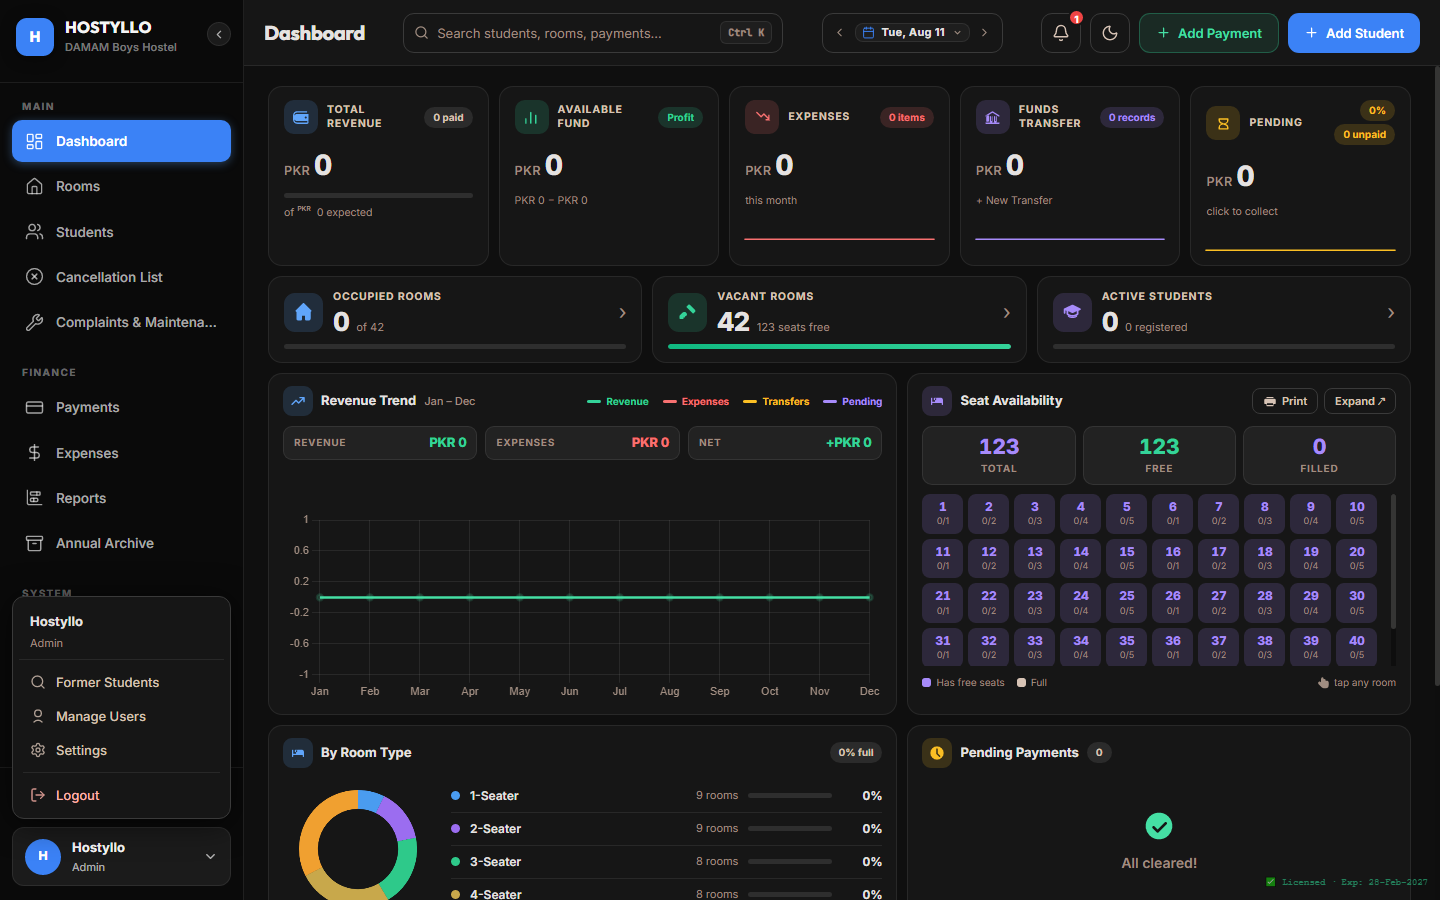
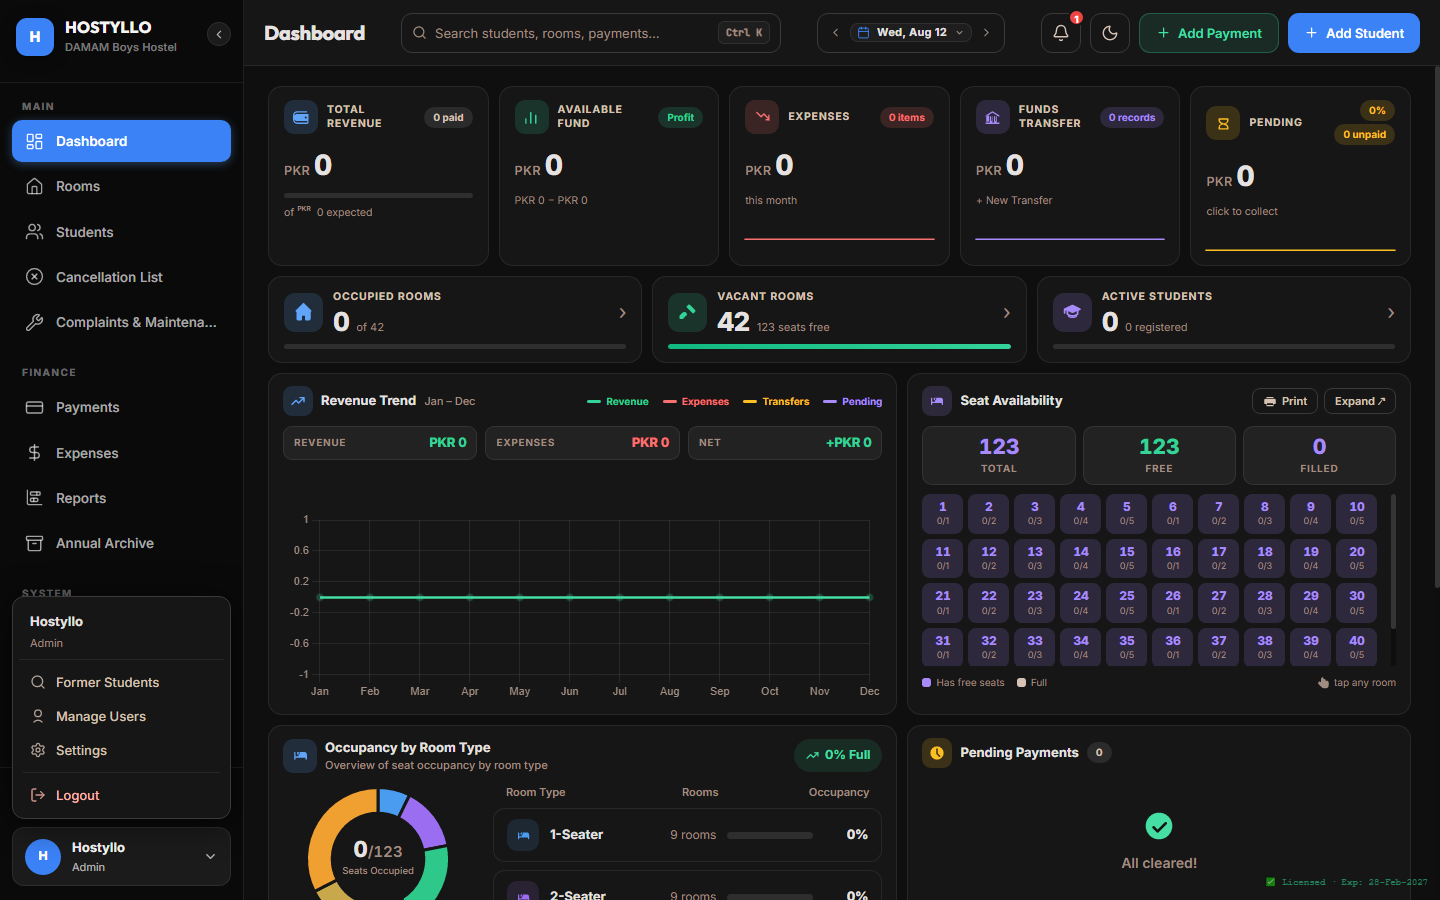
feat(dashboard,payments,toolbars): occupancy card, column visibility, tighter toolbars
Occupancy by Room Type (was "By Room Type"), rebuilt to the owner's reference:
- title + subtitle, and a green "N% Full" pill that turns red at 90%+
- the seats figure moved into the centre of the donut ("51/80 · Seats Occupied")
- an Occupied / Total Seats stat box and a "N Seats Available" line beneath it
- the breakdown is now labelled rows (Room Type / Rooms / Occupancy) as bordered
  cards with a per-type tinted icon, instead of an unlabelled dot list
- a footer note explaining how the percentage is derived
Room-type colour stays DATA (owner-configured): it drives the icon tint, the bar
and the percentage. _rtTint() only appends hex alpha to a 6-digit hex and falls
back to the neutral track colour otherwise, so a stored rgb()/named colour can
never emit a broken value.

The donut is responsive:true now and sized by its wrapper. It was responsive:
false against hard-coded 300x300 canvas attributes while an unconditional
`#dash-roomtype-donut { width:118px !important }` density rule fought it — the
ring drew at 118px inside a 170px box, so the new centre label sat off-centre.
Sizing moved to .rt-donut; segments are separated with --card so the ring reads
the same in both themes (theme.js already redraws on toggle).

Payments: Adm. Fee / Extra Chrgs / Concession are hidden by default so
everything through Status fits with no horizontal scrolling, and appear when the
sidebar is collapsed via its top-left arrow — that reclaims enough width for all
twelve columns.
[…]

diff --git a/renderer/src/modules/dashboard.js b/renderer/src/modules/dashboard.js
@@ -205,7 +205,15 @@ function renderDashboard() {
   const availSeats = totalSeats - filledSeats;
   const seatPct = totalSeats>0 ? Math.round(filledSeats/totalSeats*100) : 0;
 
-  // Per-room-type seat breakdown
+  // Per-room-type seat breakdown.
+  // type.color is DATA (owner-configured per room type), not styling — it stays
+  // the literal colour for the icon, the bar fill and the percentage.
+  // _rtTint() builds the pale chip background from it. Only 6-digit hex can take
+  // an alpha suffix; anything else (a stored rgb()/named colour) falls back to
+  // the neutral track colour rather than emitting a broken value.
+  const _rtTint = c => (/^#[0-9a-f]{6}$/i.test(String(c||'')) ? c + '22' : 'var(--dash-track)');
+  const _rtBed = `<svg viewBox="0 0 24 24" fill="currentColor" width="15" height="15"><path d="M19 7h-7a3 3 0 0 0-3 3v3H5V8a1 1 0 0 0-2 0v9a1 1 0 0 0 2 0v-2h14v2a1 1 0 0 0 2 0v-6a4 4 0 0 0-4-4ZM7 9a2 2 0 1 1 2 2 2 2 0 0 1-2-2Z"/></svg>`;
+
   let seatBreakdown = '';
   DB.settings.roomTypes.forEach(type => {
     const tRooms = DB.rooms.filter(r=>r.typeId===type.id);
@@ -213,15 +221,13 @@ function renderDashboard() {
     const typeFilledSeats = DB.students.filter(t=>t.status==='Active'&&!t.isForced&&tRooms.some(r=>r.id===t.roomId)).length;
     const typeAvail = typeTotalSeats - typeFilledSeats;
     const typePct = typeTotalSeats>0?Math.round(typeFilledSeats/typeTotalSeats*100):0;
-    // type.color is DATA (owner-configured per room type), not styling — it
-    // stays as the literal colour for the dot and the fill.
     seatBreakdown += `
-      <div class="dash-rt" title="${escHtml(type.name)} — ${typeFilledSeats}/${typeTotalSeats} seats filled, ${typeAvail} free">
-        <span class="dash-rt__dot" style="background:${escHtml(type.color)}"></span>
-        <span class="dash-rt__name">${escHtml(type.name)}</span>
-        <span class="dash-rt__meta">${tRooms.length} room${tRooms.length===1?'':'s'}</span>
-        <span class="dash-rt__bar"><i style="width:${typePct}%;background:${escHtml(type.color)}"></i></span>
-        <span class="dash-rt__pct">${typePct}%</span>
+      <div class="rt-row" title="${escHtml(type.name)} — ${typeFilledSeats}/${typeTotalSeats} seats filled, ${typeAvail} free">
+        <span class="rt-row__ic" style="background:${escHtml(_rtTint(type.color))};color:${escHtml(type.color)}">${_rtBed}</span>
+        <span class="rt-row__name">${escHtml(type.name)}</span>
+        <span class="rt-row__rooms">${tRooms.length} room${tRooms.length===1?'':'s'}</span>
+        <span class="rt-row__bar"><i style="width:${typePct}%;background:${escHtml(type.color)}"></i></span>
+        <span class="rt-row__pct" style="color:${typePct>0?escHtml(type.color):'var(--text)'}">${typePct}%</span>
       </div>`;
   });
 
@@ -461,18 +467,53 @@ function renderDashboard() {
   <div class="dash-split">
   <div class="dash-sec">
     <div class="dash-sec__head" style="margin-bottom:4px">
-      <div class="dash-chip dh-blue" style="width:30px;height:30px;border-radius:9px"><svg class="icon" viewBox="0 0 24 24" fill="currentColor" style="width:16px;height:16px"><path d="M19 7h-7a3 3 0 0 0-3 3v3H5V8a1 1 0 0 0-2 0v9a1 1 0 0 0 2 0v-2h14v2a1 1 0 0 0 2 0v-6a4 4 0 0 0-4-4ZM7 9a2 2 0 1 1 2 2 2 2 0 0 1-2-2Z"/></svg></div>
-      <span class="dash-sec__title">By Room Type</span>
-      <span class="dash-pill dh-slate" style="margin-left:auto">${seatPct}% full</span>
-    </div>
-    <div style="display:grid;grid-template-columns:150px 1fr;gap:18px;padding:8px 0;align-items:center">
-      <div style="display:flex;flex-direction:column;align-items:center;justify-content:center">
-        <canvas id="dash-roomtype-donut" width="280" height="280" style="width:140px;height:140px"></canvas>
-        <div style="font-size:12px;font-weight:700;color:var(--text);margin-top:8px">${filledSeats}<span style="color:var(--text3);font-weight:500">/${totalSeats}</span> <span style="font-size:10px;color:var(--text3);font-weight:500">seats</span></div>
+      <div class="dash-chip dh-blue" style="width:34px;height:34px;border-radius:10px"><svg class="icon" viewBox="0 0 24 24" fill="currentColor" style="width:17px;height:17px"><path d="M19 7h-7a3 3 0 0 0-3 3v3H5V8a1 1 0 0 0-2 0v9a1 1 0 0 0 2 0v-2h14v2a1 1 0 0 0 2 0v-6a4 4 0 0 0-4-4ZM7 9a2 2 0 1 1 2 2 2 2 0 0 1-2-2Z"/></svg></div>
+      <div style="min-width:0">
+        <div class="dash-sec__title">Occupancy by Room Type</div>
+        <div class="dash-sec__sub">Overview of seat occupancy by room type</div>
       </div>
-      <div>
+      <span class="rt-full ${seatPct>=90?'is-high':''}" style="margin-left:auto">
+        <svg viewBox="0 0 24 24" fill="none" stroke="currentColor" stroke-width="2.2" stroke-linecap="round" stroke-linejoin="round" width="13" height="13"><path d="M16 7h6v6"/><path d="m22 7-8.5 8.5-5-5L2 17"/></svg>
+        ${seatPct}% Full
+      </span>
+    </div>
+
+    <div class="rt-body">
+      <div class="rt-left">
+        <div class="rt-donut">
+          <!-- No width/height attributes: the chart is responsive:true, so
+               Chart.js sizes the backing store to this box and to the device
+               pixel ratio itself. Hard-coding them made it lay out against the
+               attribute size and draw the ring smaller than, and off-centre in,
+               its container. -->
+          <canvas id="dash-roomtype-donut"></canvas>
+          <div class="rt-donut__c">
+            <div class="rt-donut__n">${filledSeats}<span>/${totalSeats}</span></div>
+            <div class="rt-donut__l">Seats Occupied</div>
+          </div>
+        </div>
+        <div class="rt-stat">
+          <span class="rt-stat__ic dh-blue"><svg viewBox="0 0 24 24" fill="currentColor" width="15" height="15"><path d="M12 12a5 5 0 1 0-5-5 5 5 0 0 0 5 5Zm0 2c-4 0-8 2-8 5v1a1 1 0 0 0 1 1h14a1 1 0 0 0 1-1v-1c0-3-4-5-8-5Z"/></svg></span>
+          <div class="rt-stat__c"><b>${filledSeats}</b><span>Occupied</span></div>
+          <div class="rt-stat__sep"></div>
+          <div class="rt-stat__c"><b>${totalSeats}</b><span>Total Seats</span></div>
+        </div>
+        <div class="rt-avail"><i></i><b>${availSeats}</b> Seats Available</div>
+      </div>
+
+      <div class="rt-right">
+        <div class="rt-list__hd">
+          <span>Room Type</span>
+          <span class="rt-list__hd-rooms">Rooms</span>
+          <span class="rt-list__hd-occ">Occupancy</span>
+        </div>
         ${seatBreakdown}
       </div>
+    </div>
+
+    <div class="rt-note">
+      <span class="rt-note__ic"><svg viewBox="0 0 24 24" fill="currentColor" width="12" height="12"><path d="M12 2a10 10 0 1 0 10 10A10 10 0 0 0 12 2Zm0 5a1.25 1.25 0 1 1-1.25 1.25A1.25 1.25 0 0 1 12 7Zm1.5 10h-3a1 1 0 0 1 0-2h.5v-3h-.5a1 1 0 0 1 0-2H12a1 1 0 0 1 1 1v4h.5a1 1 0 0 1 0 2Z"/></svg></span>
+      Occupancy percentage is calculated based on available seats in each room type.
     </div>
   </div>
   <!-- PENDING PAYMENTS -->
@@ -1289,6 +1330,10 @@ function drawRoomDonut() {
     }
   });
 
+  // Separate the segments with the card colour rather than a fixed white, so the
+  // ring reads the same in both themes. theme.js already re-runs this on toggle.
+  var cardBg = getComputedStyle(document.body).getPropertyValue('--card').trim() || '#161616';
+
   _dashDonutChart = new Chart(canvas.getContext('2d'), {
     type: 'doughnut',
     data: {
@@ -1296,14 +1341,16 @@ function drawRoomDonut() {
       datasets: [{
         data: data,
         backgroundColor: colors,
-        borderWidth: 0,
+        borderWidth: 3,
+        borderColor: cardBg,
         hoverOffset: 5
       }]
     },
     options: {
-      cutout: '68%',
-      responsive: false,
+      cutout: '64%',
+      responsive: true,
       maintainAspectRatio: false,
+      layout: { padding: 2 },
       animation: false,
       plugins: {
         legend: { display: false },

diff --git a/renderer/dashboard.css b/renderer/dashboard.css
@@ -128,6 +128,86 @@
 .dash-rt__bar > i  { display:block; height:100%; border-radius:999px; transition:width .5s ease; }
 .dash-rt__pct      { flex-shrink:0; width:40px; text-align:right; font-size:12px; font-weight:700; color:var(--text); font-family:var(--font); font-variant-numeric:tabular-nums; }
 
+/* ── Occupancy by Room Type ──────────────────────────────────────────────── */
+.rt-full {
+    display:inline-flex; align-items:center; gap:6px; flex-shrink:0;
+    padding:7px 12px; border-radius:999px;
+    background:var(--dh-bg, rgba(46,201,138,.12)); color:var(--green);
+    font-size:12.5px; font-weight:700; white-space:nowrap;
+}
+.rt-full.is-high { color:var(--red); }
+
+.rt-body { display:grid; grid-template-columns:190px 1fr; gap:20px; padding:6px 0 2px; align-items:start; }
+
+.rt-donut { position:relative; width:170px; height:170px; margin:0 auto; }
+/* The canvas is absolutely positioned so it shares its box exactly with the
+   overlay below. Sized by CSS while the element keeps a larger backing store
+   (the width/height attributes), which is what keeps the ring crisp. */
+.rt-donut canvas { position:absolute; inset:0; display:block; }
+/* Chart.js has no centre-label API, so the figure is an overlay. pointer-events
+   must stay off or it would swallow the donut's own hover tooltips. */
+.rt-donut__c {
+    position:absolute; inset:0; pointer-events:none;
+    display:flex; flex-direction:column; align-items:center; justify-content:center;
+}
+.rt-donut__n { font-size:22px; font-weight:800; color:var(--text); line-height:1; font-variant-numeric:tabular-nums; }
+.rt-donut__n span { font-size:15px; font-weight:600; color:var(--text3); }
+.rt-donut__l { margin-top:4px; font-size:9.5px; font-weight:500; color:var(--text3); }
+
+.rt-stat {
+    display:flex; align-items:center; gap:10px; margin-top:14px;
+    padding:10px 12px; border-radius:12px;
+    background:var(--card); border:1px solid var(--border);
+}
+.rt-stat__ic { width:30px; height:30px; border-radius:50%; flex-shrink:0;
+               display:flex; align-items:center; justify-content:center; }
+.rt-stat__c    { min-width:0; line-height:1.25; }
+.rt-stat__c b  { display:block; font-size:15px; font-weight:800; color:var(--text); font-variant-numeric:tabular-nums; }
+.rt-stat__c span { font-size:10.5px; color:var(--text3); white-space:nowrap; }
+.rt-stat__sep  { width:1px; align-self:stretch; background:var(--border); margin:0 2px; }
+
+.rt-avail { display:flex; align-items:center; gap:7px; margin-top:11px; padding-left:2px;
+            font-size:12px; color:var(--text3); }
+.rt-avail i { width:7px; height:7px; border-radius:50%; background:var(--green); flex-shrink:0; }
+.rt-avail b { color:var(--green); font-weight:800; font-variant-numeric:tabular-nums; }
+
+.rt-list__hd {
+    display:flex; align-items:center; gap:11px; padding:0 13px 8px;
+    font-size:11px; font-weight:600; color:var(--text3);
+}
+.rt-list__hd > span:first-child { flex:1; min-width:0; }
+.rt-list__hd-rooms { flex-shrink:0; width:70px; text-align:right; }
+.rt-list__hd-occ   { flex-shrink:0; width:140px; text-align:right; }
+
+.rt-row {
+    display:flex; align-items:center; gap:11px;
+    padding:10px 13px; margin-bottom:8px;
+    border-radius:12px; background:var(--card); border:1px solid var(--border);
+    transition:border-color .15s ease;
+}
+.rt-row:last-child  { margin-bottom:0; }
+.rt-row:hover       { border-color:var(--border2); }
+.rt-row__ic {
+    width:32px; height:32px; border-radius:10px; flex-shrink:0;
+    display:flex; align-items:center; justify-content:center;
+}
+.rt-row__name  { flex:1; min-width:0; font-size:13px; font-weight:700; color:var(--text);
+                 white-space:nowrap; overflow:hidden; text-overflow:ellipsis; }
+.rt-row__rooms { flex-shrink:0; width:70px; text-align:right; font-size:12px; color:var(--text3);
+                 font-variant-numeric:tabular-nums; }
+.rt-row__bar   { flex-shrink:0; width:86px; height:7px; border-radius:999px;
+                 background:var(--dash-track); overflow:hidden; }
+.rt-row__bar > i { display:block; height:100%; border-radius:999px; transition:width .5s ease; }
+.rt-row__pct   { flex-shrink:0; width:44px; text-align:right; font-size:13px; font-weight:800;
+                 font-variant-numeric:tabular-nums; }
+
+.rt-note {
+    display:flex; align-items:center; gap:9px; margin-top:14px;
+    padding:10px 13px; border-radius:11px;
+    background:var(--dash-sunk); color:var(--text3); font-size:11.5px; line-height:1.5;
+}
+.rt-note__ic { color:var(--accent); flex-shrink:0; display:flex; }
+
 /* ── Pending payment rows ────────────────────────────────────────────────── */
 .dash-pay            { display:flex; align-items:center; gap:11px; padding:10px 0; border-bottom:1px solid var(--border); }
 .dash-pay:last-child { border-bottom:none; }
@@ -207,8 +287,11 @@
 .dash-pay__name         { font-size:12.5px; }
 
 /* The donut shrinks with everything else, otherwise the card around it gets
-   denser while the chart keeps its old footprint. */
-#dash-roomtype-donut    { width:118px !important; height:118px !important; }
+   denser while the chart keeps its old footprint. Sizing moved from the canvas
+   to its wrapper: the chart is responsive:true now and measures that box, so an
+   !important on the canvas fought the chart instead of resizing it — it drew a
+   118px ring inside a 170px container, leaving the centre label off-centre. */
+.rt-donut               { width:150px; height:150px; }
 
 /* ── Trend + Seat row height (owner request: taller top-to-bottom) ───────────
    These two are the row that earns extra height — the trend line was cramped

diff --git a/renderer/src/modules/payments.js b/renderer/src/modules/payments.js
@@ -298,10 +298,11 @@ function renderPayments() {
           ${th('method','Method')}
           ${th('status','Status')}
           <!-- Secondary money columns sit after Status: they are usually "—", and
-               keeping them left of it pushed the columns that matter off-screen. -->
-          <th>Adm. Fee</th>
-          <th>Extra Chrgs</th>
-          <th>Concession</th>
+               keeping them left of it pushed the columns that matter off-screen.
+               They are hidden until the sidebar is collapsed — see payments.css. -->
+          <th class="pay-col-x">Adm. Fee</th>
+          <th class="pay-col-x">Extra Chrgs</th>
+          <th class="pay-col-x">Concession</th>
           <th class="pay-col-act">Actions</th>
         </tr></thead>
         <tbody>
@@ -349,9 +350,9 @@ function renderPayments() {
               </span>
               ${payIsOverdue(p)?'<div style="font-size:10px;font-weight:700;color:var(--red);margin-top:3px">Overdue</div>':''}
             </td>
-            <td>${admFee>0?`<span class="pay-money">${fmtPKR(admFee)}</span>`:'<span class="pay-dash">—</span>'}</td>
-            <td>${extras.length?`<div class="pay-extra">${extras.map(c=>`${c.label?escHtml(c.label)+':':''}<b>${fmtPKR(c.amount)}</b>`).join('')}</div>`:'<span class="pay-dash">—</span>'}</td>
-            <td>${conc>0?`<div class="pay-extra">${concD?escHtml(concD)+':':''}<b>−${fmtPKR(conc)}</b></div>`:'<span class="pay-dash">—</span>'}</td>
+            <td class="pay-col-x">${admFee>0?`<span class="pay-money">${fmtPKR(admFee)}</span>`:'<span class="pay-dash">—</span>'}</td>
+            <td class="pay-col-x">${extras.length?`<div class="pay-extra">${extras.map(c=>`${c.label?escHtml(c.label)+':':''}<b>${fmtPKR(c.amount)}</b>`).join('')}</div>`:'<span class="pay-dash">—</span>'}</td>
+            <td class="pay-col-x">${conc>0?`<div class="pay-extra">${concD?escHtml(concD)+':':''}<b>−${fmtPKR(conc)}</b></div>`:'<span class="pay-dash">—</span>'}</td>
             <td class="pay-col-act">
               <div class="pay-acts">
                 <button class="pay-act dh-blue"  onclick="event.stopPropagation();showEditPaymentModal('${p.id}')" title="View / edit"><svg width="13" height="13" viewBox="0 0 24 24" fill="none" stroke="currentColor" stroke-width="2" stroke-linecap="round" stroke-linejoin="round"><path d="M2 12s3-7 10-7 10 7 10 7-3 7-10 7-10-7-10-7"/><circle cx="12" cy="12" r="3"/></svg></button>

diff --git a/renderer/listkit.css b/renderer/listkit.css
@@ -62,7 +62,7 @@
 .lk-panel { background:var(--card); border:1px solid var(--border); border-radius:16px; padding:14px 16px; }
 .lk-tools { display:flex; align-items:center; gap:10px; flex-wrap:wrap; }
 .lk-search {
-    display:flex; align-items:center; gap:8px; flex:1 1 220px; min-width:190px; max-width:330px;
+    display:flex; align-items:center; gap:8px; flex:1 1 170px; min-width:150px; max-width:300px;
     height:40px; padding:0 12px; border-radius:11px;
     background:var(--card); border:1px solid var(--border2);
     transition:border-color .15s ease, box-shadow .15s ease;
@@ -73,7 +73,7 @@
 .lk-search input::placeholder { color:var(--text3); }
 
 .lk-select {
-    height:40px; min-width:132px; padding:0 32px 0 13px; border-radius:11px; cursor:pointer;
+    height:40px; min-width:118px; padding:0 32px 0 13px; border-radius:11px; cursor:pointer;
     background:var(--card); border:1px solid var(--border2); color:var(--text);
     font-family:var(--font); font-size:13px; font-weight:500;
     appearance:none; -webkit-appearance:none;
@@ -101,7 +101,7 @@
 .lk-range { display:flex; align-items:center; gap:8px; height:40px; padding:0 12px; border-radius:11px;
             background:var(--card); border:1px solid var(--border2); }
 .lk-range input {
-    width:84px; background:none; border:none; outline:none; cursor:pointer;
+    width:76px; background:none; border:none; outline:none; cursor:pointer;
     color:var(--text); font-family:var(--font); font-size:12.5px; font-variant-numeric:tabular-nums;
 }
 .lk-range svg  { color:var(--text3); flex-shrink:0; }

diff --git a/renderer/rooms.css b/renderer/rooms.css
@@ -34,7 +34,7 @@
 .rms-tools { display:flex; align-items:center; gap:10px; flex-wrap:wrap; }
 
 .rms-search {
-    display:flex; align-items:center; gap:8px; flex:1 1 200px; min-width:180px; max-width:280px;
+    display:flex; align-items:center; gap:8px; flex:1 1 170px; min-width:150px; max-width:200px;
     height:40px; padding:0 12px; border-radius:11px;
     background:var(--card); border:1px solid var(--border2);
     transition:border-color .15s ease, box-shadow .15s ease;
@@ -48,7 +48,7 @@
 .rms-seg { display:flex; align-items:center; gap:4px; padding:4px; border-radius:12px;
           background:var(--dash-sunk); border:1px solid var(--border); }
 .rms-seg button {
-    height:32px; padding:0 15px; border-radius:9px; cursor:pointer; white-space:nowrap;
+    height:32px; padding:0 12px; border-radius:9px; cursor:pointer; white-space:nowrap;
     background:none; border:none; color:var(--text2);
     font-family:var(--font); font-size:12.5px; font-weight:600; transition:var(--transition);
 }
@@ -56,7 +56,7 @@
 .rms-seg button.is-on     { background:var(--accent-dim); color:var(--accent-strong); }
 
 .rms-select {
-    height:40px; min-width:132px; padding:0 32px 0 13px; border-radius:11px; cursor:pointer;
+    height:40px; min-width:118px; padding:0 32px 0 13px; border-radius:11px; cursor:pointer;
     background:var(--card); border:1px solid var(--border2); color:var(--text);
     font-family:var(--font); font-size:13px; font-weight:500;
     appearance:none; -webkit-appearance:none;

diff --git a/renderer/payments.css b/renderer/payments.css
@@ -163,6 +163,13 @@
     background:var(--card);
     border-left:1px solid var(--border);
 }
+/* Secondary money columns (Adm. Fee, Extra Chrgs, Concession). Hidden by
+   default so everything through Status fits without horizontal scrolling, then
+   revealed when the sidebar is collapsed via the arrow in its top-left corner —
+   that reclaims ~180px, which is enough for all twelve columns. */
+.pay-table .pay-col-x { display:none; }
+body.sidebar-collapsed .pay-table .pay-col-x { display:table-cell; }
+
 /* --dash-sunk, --dh-bg and the row states are all translucent (ui-kit.css:38
    is rgba(255,255,255,.055)). Painting a pinned cell with one directly lets the
    columns scrolling underneath show straight through it — the ACTIONS header

diff --git a/renderer/src/modules/rooms.js b/renderer/src/modules/rooms.js
@@ -215,9 +215,9 @@ function renderRooms() {
       <select class="rms-select${roomFilter.sortKey?' is-set':''}" onchange="setRoomSort(this.value)" title="Sort rooms">
         ${sortOpt('|asc','Sort: Default')}
         ${sortOpt('number|asc','Room # ↑')}
-        ${sortOpt('rent|asc','Rent: Low → High')}
-        ${sortOpt('rent|desc','Rent: High → Low')}
-        ${sortOpt('occupancy|desc','Occupancy: High → Low')}
+        ${sortOpt('rent|asc','Rent ↑')}
+        ${sortOpt('rent|desc','Rent ↓')}
+        ${sortOpt('occupancy|desc','Occupancy ↓')}
         ${sortOpt('floor|asc','Floor ↑')}
       </select>
 
